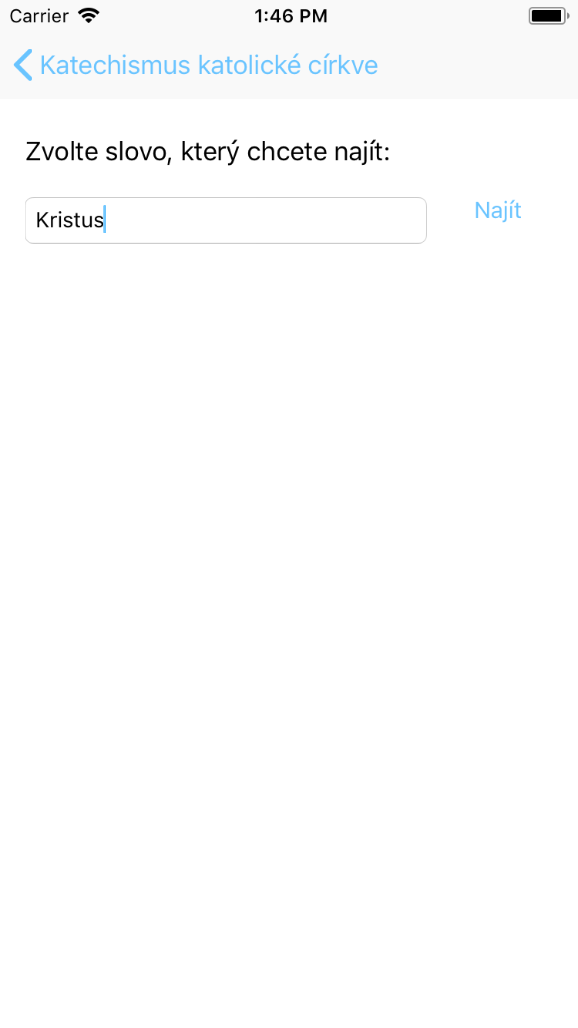
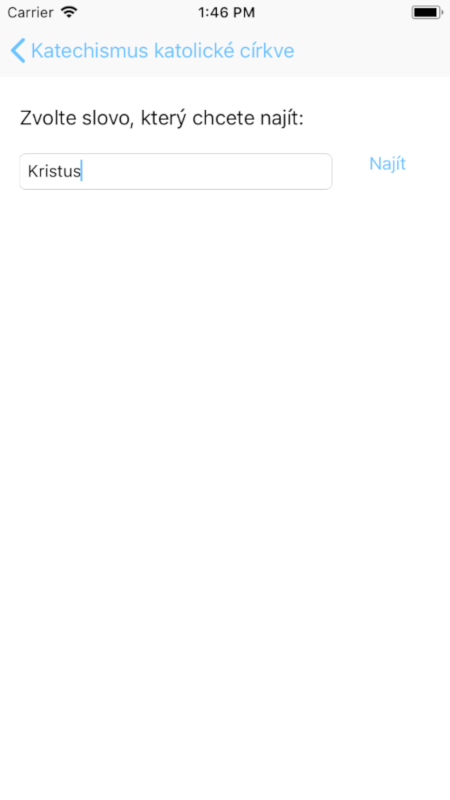
Resize images

diff --git a/README.md b/README.md
@@ -4,25 +4,25 @@ Aplikace Katechismus Katolické Církve (KKC) pro iOS zařízení
 ## Hlavní stránka
 Hlavní stránka KKC
 
-![MainScreen](<./Screenshots/iOS_MainScreen.png> =50%x)
+![MainScreen](./Screenshots/iOS_MainScreen.png)
 
 ## Procházení podle kapitol
 
-![Kapitoly](./Screenshots/iOS_ByChapters.png =50%x)
+![Kapitoly](./Screenshots/iOS_ByChapters.png)
 
-![Detaily](./Screenshots/iOS_ChaptersDetails.png =50%x)
+![Detaily](./Screenshots/iOS_ChaptersDetails.png)
 
 ## Procházení podle čísel
 
-![Numbers](./Screenshots/iOS_NumberSelection.png =50%x)
+![Numbers](./Screenshots/iOS_NumberSelection.png)
 
 ## Vyhledávání podle slov
 
-![FindWord](./Screenshots/iOS_FindText.png =50%x)
+![FindWord](./Screenshots/iOS_FindText.png)
 
-![FindResult](./Screenshots/iOS_FindResults.png =50%x)
+![FindResult](./Screenshots/iOS_FindResults.png)
 
 ## Výsledné paragrafy z KKC
 
-![Paragrphs](./Screenshots/iOS_Paragraphs.png =50%x)
+![Paragrphs](./Screenshots/iOS_Paragraphs.png)
 
